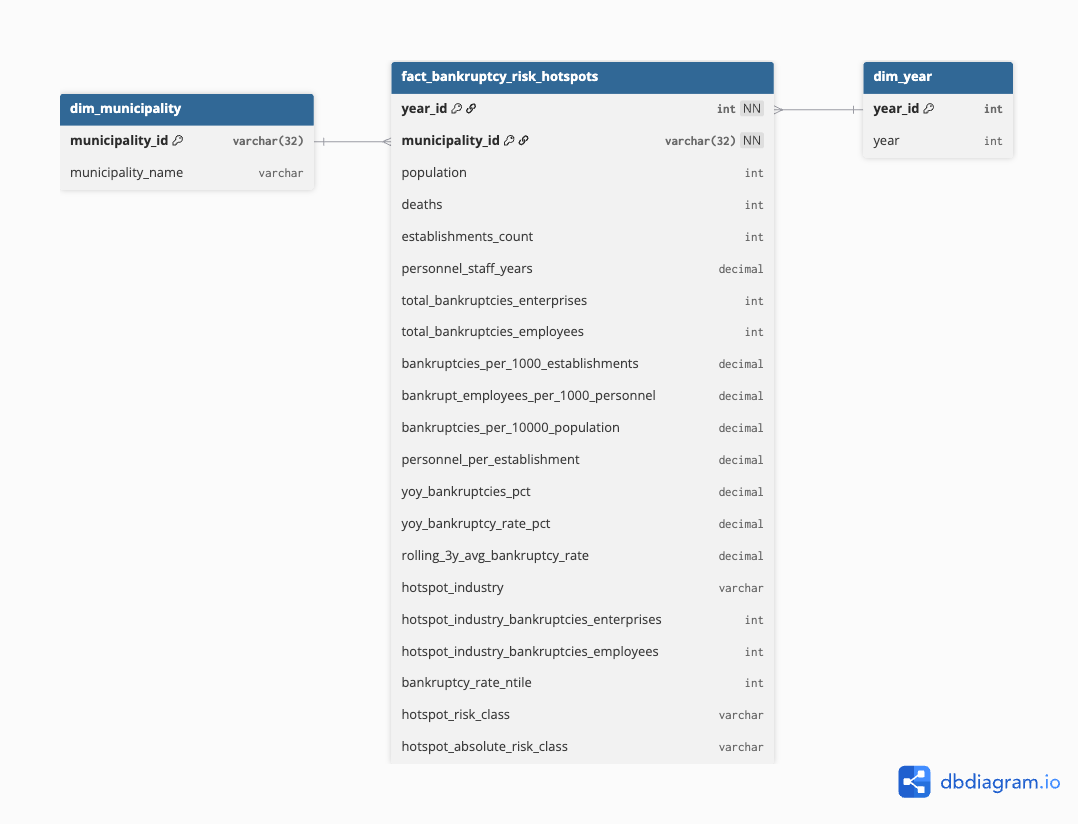
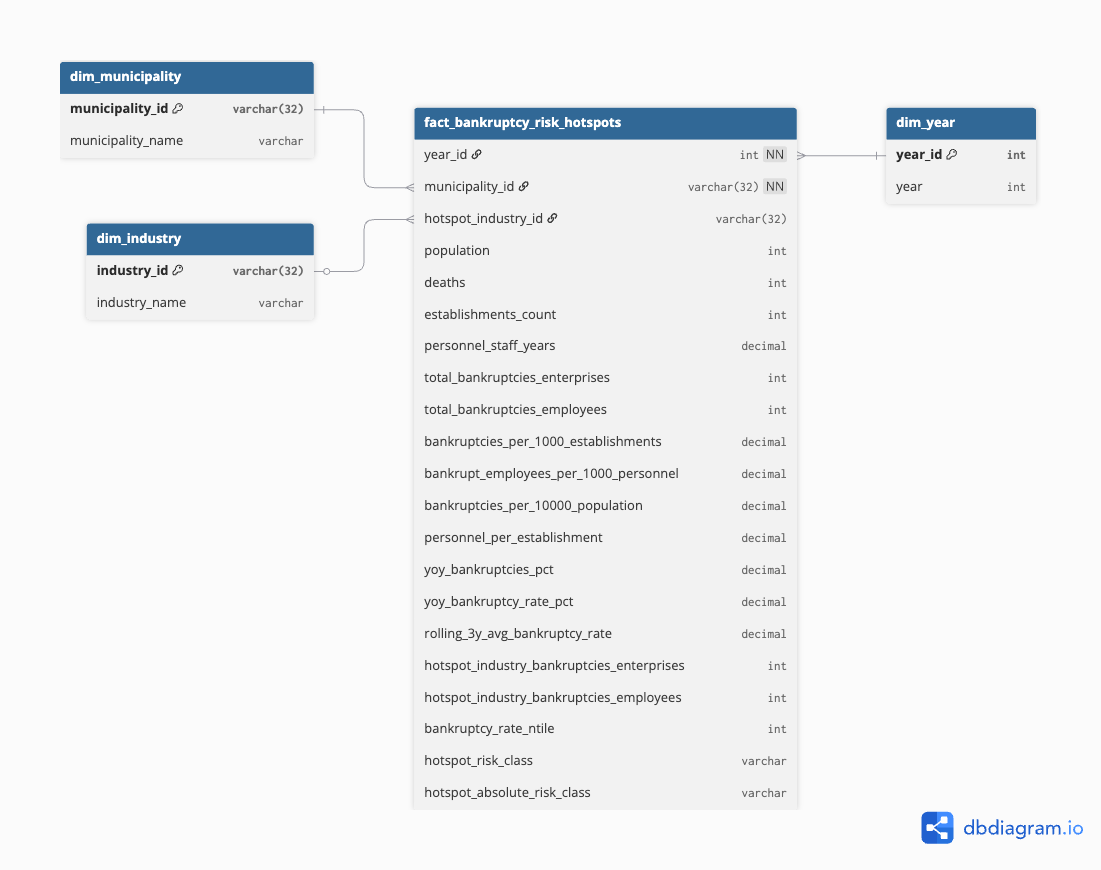
Refactor bankruptcy risk hotspots to textbook star

diff --git a/docs/use-cases/bankruptcy-risk-hotspots.md b/docs/use-cases/bankruptcy-risk-hotspots.md
@@ -17,6 +17,7 @@ This use case helps identify high-risk municipalities for:
 
 - Model: `fact_bankruptcy_risk_hotspots`
 - Grain: one row per `year x municipality`
+- Star-schema style: foreign keys and measures only; descriptive names come from dimensions
 
 ## Dimensions
 
@@ -24,6 +25,8 @@ This use case helps identify high-risk municipalities for:
   - `year_id`
 - `dim_municipality`
   - `municipality_id`
+- `dim_industry`
+  - `industry_id` used via `hotspot_industry_id`
 
 ## Core Metrics
 
@@ -94,12 +97,14 @@ This prevents misleading dashboard outputs.
 
 - `year_id` uses the natural year value
 - `municipality_id` uses a stable hash-based key
+- `hotspot_industry_id` uses the stable hash-based industry dimension key for the top bankruptcy industry
 
 ## Known Caveats
 
 - `yoy_*` metrics are `NULL` in 2020 because there is no prior year in the dataset
 - some dissolved municipalities or `Unknown` values may still appear depending on source coverage
 - hotspot thresholds are descriptive and comparative, not causal or predictive
+- dashboard tools should join to dimensions for municipality, year, and hotspot-industry names
 
 ## Recommended Dashboard Views
 

diff --git a/docs/architecture/star-schema-bankruptcy-hotspots.md b/docs/architecture/star-schema-bankruptcy-hotspots.md
@@ -11,6 +11,8 @@
   - joined by `year_id`
 - `dim_municipality`
   - joined by `municipality_id`
+- `dim_industry`
+  - joined by `hotspot_industry_id`
 
 ## Why This Is A Star Schema
 
@@ -20,6 +22,7 @@ Dimension keys in the fact:
 
 - `year_id`
 - `municipality_id`
+- `hotspot_industry_id`
 
 Measures in the fact include:
 
@@ -37,5 +40,5 @@ See:
 
 ## Notes
 
-- `year` and `municipality` may still appear in the fact table as analyst-friendly descriptive columns
-- the star-schema diagram focuses on the dimensional relationships, not every physical column
+- the fact table exposes only keys and measures in the implemented model
+- descriptive names such as municipality and industry labels live in the dimensions

diff --git a/docs/architecture/modeling-decisions.md b/docs/architecture/modeling-decisions.md
@@ -156,6 +156,21 @@ Why both exist:
 - one supports within-year ranking
 - one supports cross-year trend interpretation
 
+## 7a. Textbook Star Representation For Derived Categories
+
+The hotspots model includes a derived "top bankruptcy industry" concept at municipality-year grain.
+
+Decision:
+
+- expose `hotspot_industry_id` instead of a raw text industry name in the fact
+- keep the descriptive industry name in `dim_industry`
+
+Why:
+
+- preserves a stricter textbook star-schema shape
+- keeps the fact table limited to keys and measures
+- makes the implemented model align with the conceptual diagram
+
 ## 8. Removing Misleading Period Labels
 
 An earlier version of the year dimension used labels like:

diff --git a/docs/architecture/warehouse-architecture.md b/docs/architecture/warehouse-architecture.md
@@ -62,7 +62,7 @@ Examples of modeling problems addressed:
   - purpose: national yearly trend view of bankruptcies, establishments, personnel, population, and deaths
 - `fact_bankruptcy_risk_hotspots`
   - grain: `year x municipality`
-  - purpose: identify municipalities with the highest bankruptcy pressure relative to their business base
+  - purpose: identify municipalities with the highest bankruptcy pressure relative to their business base; implemented as a stricter star with a derived top-industry foreign key
 - `fact_municipality_resilience`
   - grain: `year x municipality`
   - purpose: combine population, establishment, personnel, and bankruptcy signals into a resilience view
